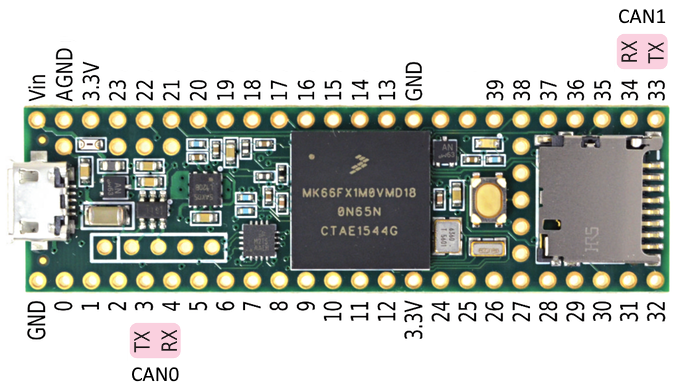
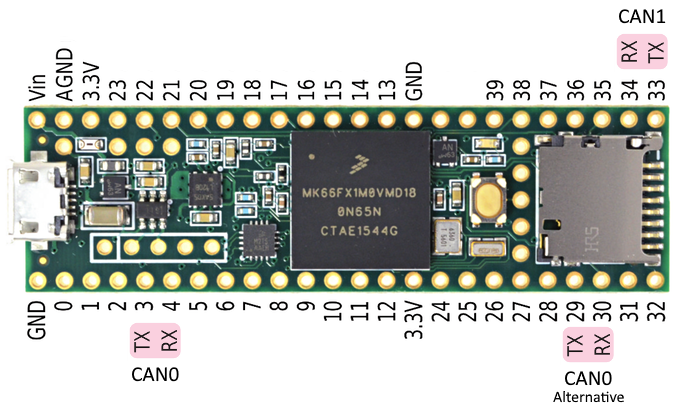
Better support for Teensy 3.5, more pictures and description in README, very basic RTR support

diff --git a/FlexCAN.cpp b/FlexCAN.cpp
@@ -1,8 +1,9 @@
 // -------------------------------------------------------------
-// a simple Arduino Teensy 3.1/3.2/3.6 CAN driver
+// a simple Arduino Teensy 3.1/3.2/3.5/3.6 CAN driver
 // by teachop
-// dual CAN support for MK66FX1M0 by Pawelsky
+// dual CAN support for MK66FX1M0 and updates for MK64FX512 by Pawelsky
 // Interrupt driven Rx/Tx with buffers, object oriented callbacks by Collin Kidder
+// RTR related code by H4nky84
 //
 #include "FlexCAN.h"
 #include "kinetis_flexcan.h"
@@ -105,7 +106,7 @@ void FlexCAN::begin(uint32_t baud, const CAN_filter_t &mask, uint8_t txAlt, uint
   if(flexcanBase == FLEXCAN0_BASE)
   {
     //Serial.println("Begin setup of CAN0");
-#ifdef __MK66FX1M0__
+#if defined(__MK66FX1M0__) || defined(__MK64FX512__)
     //  3=PTA12=CAN0_TX,  4=PTA13=CAN0_RX (default)
     // 29=PTB18=CAN0_TX, 30=PTB19=CAN0_RX (alternative)
     if(txAlt == 1) CORE_PIN29_CONFIG = PORT_PCR_MUX(2); else CORE_PIN3_CONFIG = PORT_PCR_MUX(2); 
@@ -397,6 +398,7 @@ int FlexCAN::read(CAN_message_t &msg)
     msg.id = rx_frame_buff[rx_buffer_tail].id;
     msg.ext = rx_frame_buff[rx_buffer_tail].ext;
     msg.len = rx_frame_buff[rx_buffer_tail].len;
+    msg.rtr = rx_frame_buff[rx_buffer_tail].rtr;
     for (int c = 0; c < 8; c++) msg.buf[c] = rx_frame_buff[rx_buffer_tail].buf[c];
     rx_buffer_tail = (rx_buffer_tail + 1) % SIZE_RX_BUFFER;
 
@@ -439,6 +441,7 @@ int FlexCAN::write(const CAN_message_t &msg)
     if (temp == tx_buffer_head) return 0;
     tx_frame_buff[tx_buffer_tail].id = msg.id;
     tx_frame_buff[tx_buffer_tail].ext = msg.ext;
+    tx_frame_buff[tx_buffer_tail].rtr = msg.rtr;
     tx_frame_buff[tx_buffer_tail].len  = msg.len;
     for (int c = 0; c < 8; c++) tx_frame_buff[tx_buffer_tail].buf[c] = msg.buf[c];
     tx_buffer_tail = temp;
@@ -460,13 +463,24 @@ void FlexCAN::writeTxRegisters(const CAN_message_t &msg, uint8_t buffer)
   }
   FLEXCANb_MBn_WORD0(flexcanBase, buffer) = (msg.buf[0]<<24)|(msg.buf[1]<<16)|(msg.buf[2]<<8)|msg.buf[3];
   FLEXCANb_MBn_WORD1(flexcanBase, buffer) = (msg.buf[4]<<24)|(msg.buf[5]<<16)|(msg.buf[6]<<8)|msg.buf[7];
+
   if(msg.ext) {
-    FLEXCANb_MBn_CS(flexcanBase, buffer) = FLEXCAN_MB_CS_CODE(FLEXCAN_MB_CODE_TX_ONCE)
+    if(msg.rtr) {
+        FLEXCANb_MBn_CS(flexcanBase, buffer) = FLEXCAN_MB_CS_CODE(FLEXCAN_MB_CODE_TX_ONCE)
+                                         | FLEXCAN_MB_CS_LENGTH(msg.len) | FLEXCAN_MB_CS_SRR | FLEXCAN_MB_CS_IDE | FLEXCAN_MB_CS_RTR;
+    } else {
+        FLEXCANb_MBn_CS(flexcanBase, buffer) = FLEXCAN_MB_CS_CODE(FLEXCAN_MB_CODE_TX_ONCE)
                                          | FLEXCAN_MB_CS_LENGTH(msg.len) | FLEXCAN_MB_CS_SRR | FLEXCAN_MB_CS_IDE;
+    }
   } else {
-    FLEXCANb_MBn_CS(flexcanBase, buffer) = FLEXCAN_MB_CS_CODE(FLEXCAN_MB_CODE_TX_ONCE)
+    if(msg.rtr) {
+        FLEXCANb_MBn_CS(flexcanBase, buffer) = FLEXCAN_MB_CS_CODE(FLEXCAN_MB_CODE_TX_ONCE)
+                                         | FLEXCAN_MB_CS_LENGTH(msg.len) | FLEXCAN_MB_CS_RTR;
+    } else {
+        FLEXCANb_MBn_CS(flexcanBase, buffer) = FLEXCAN_MB_CS_CODE(FLEXCAN_MB_CODE_TX_ONCE)
                                          | FLEXCAN_MB_CS_LENGTH(msg.len);
-  }
+    }
+  }    
 }
 
 void FlexCAN::readRxRegisters(CAN_message_t& msg, uint8_t buffer)
@@ -474,6 +488,7 @@ void FlexCAN::readRxRegisters(CAN_message_t& msg, uint8_t buffer)
   // get identifier and dlc
   msg.len = FLEXCAN_get_length(FLEXCANb_MBn_CS(flexcanBase, buffer));
   msg.ext = (FLEXCANb_MBn_CS(flexcanBase, buffer) & FLEXCAN_MB_CS_IDE)? 1:0;
+  msg.rtr = (FLEXCANb_MBn_CS(flexcanBase, buffer) & FLEXCAN_MB_CS_RTR)? 1:0;
   msg.id  = (FLEXCANb_MBn_ID(flexcanBase, buffer) & FLEXCAN_MB_ID_EXT_MASK);
   if(!msg.ext) {
     msg.id >>= FLEXCAN_MB_ID_STD_BIT_NO;

diff --git a/FlexCAN.h b/FlexCAN.h
@@ -17,6 +17,7 @@
 typedef struct CAN_message_t {
   uint32_t id; // can identifier
   uint8_t ext; // identifier is extended
+  uint8_t rtr; //remote transmission request packet type
   uint8_t len; // length of data
   uint16_t timeout; // milliseconds, zero will disable waiting
   uint8_t buf[8];

diff --git a/README.md b/README.md
@@ -3,9 +3,17 @@
 ###Introduction
 FlexCAN is a serial communication driver for the CAN peripherial built into the Teensy CPUs. Versions 3.1, 3.2, and 3.5 of the board support single CAN0 controller while version 3.6 supports dual CAN0/CAN1 controllers.  The driver is organized in the Arduino library format.
 
-When the FlexCAN object is configured on Teensy 3.1/3.2/3.5, Arduino pins Digital 3 and Digital 4 are assigned to CAN functions TX and RX.
+When the FlexCAN object is configured on Teensy 3.1/3.2, Arduino pins Digital 3 and Digital 4 are assigned to CAN functions TX and RX.
 
 ![Teensy 3.1/3.2/3.5 CAN Pins, Digital3=TX, Digital4=RX](/FlexCAN_pins.png)
+
+Alternatively, pins 25 and 32 can be assigned to CAN0 instead:
+
+![Teensy 3.1/3.2 Alternative CAN Pins, Digital32=TX, Digital25=RX](/FlexCAN_pins_alt.png)
+
+Similarily on Teensy 3.5, the same Arduino pins Digital 3 and Digital 4 are assigned to CAN functions TX and RX. Pins 29 and 30 can be alternatively used for CAN0.
+
+![Teensy 3.5 CAN Pins, Digital3=TX, Digital4=RX](/FlexCAN_pins35.png)
 
 All boards have an automatically created object named Can0 which can be used to setup the first CAN bus. The Teensy 3.6 adds a Can1 object which can be used to set up the second bus.
 
@@ -29,6 +37,8 @@ Please add parts you are using successfully with Teensy 3.1 to this list.
 - NXP TJA1050T/VM,118 on the same 5V supply as the Teensy. (1MBPS)
 - Microchip MCP2551 on 5V (reported at 500KBPS)
 - Linear LT1796 on 5V (not speedtested)
+- ISO1050DW / DUB
+- Microchip MCP2562 with VIO on 3.3V (tested on Teensy 3.2 and 3.6)
 
 ###Driver API
 All available CAN buses have pre-created objects similarly to how the serial devices are created (Serial, Serial2, etc). In the case of these CAN buses they are called **Can0** (Teensy 3.1/3.2/3.5/3.6) and **Can1** (Teensy 3.6 only).
